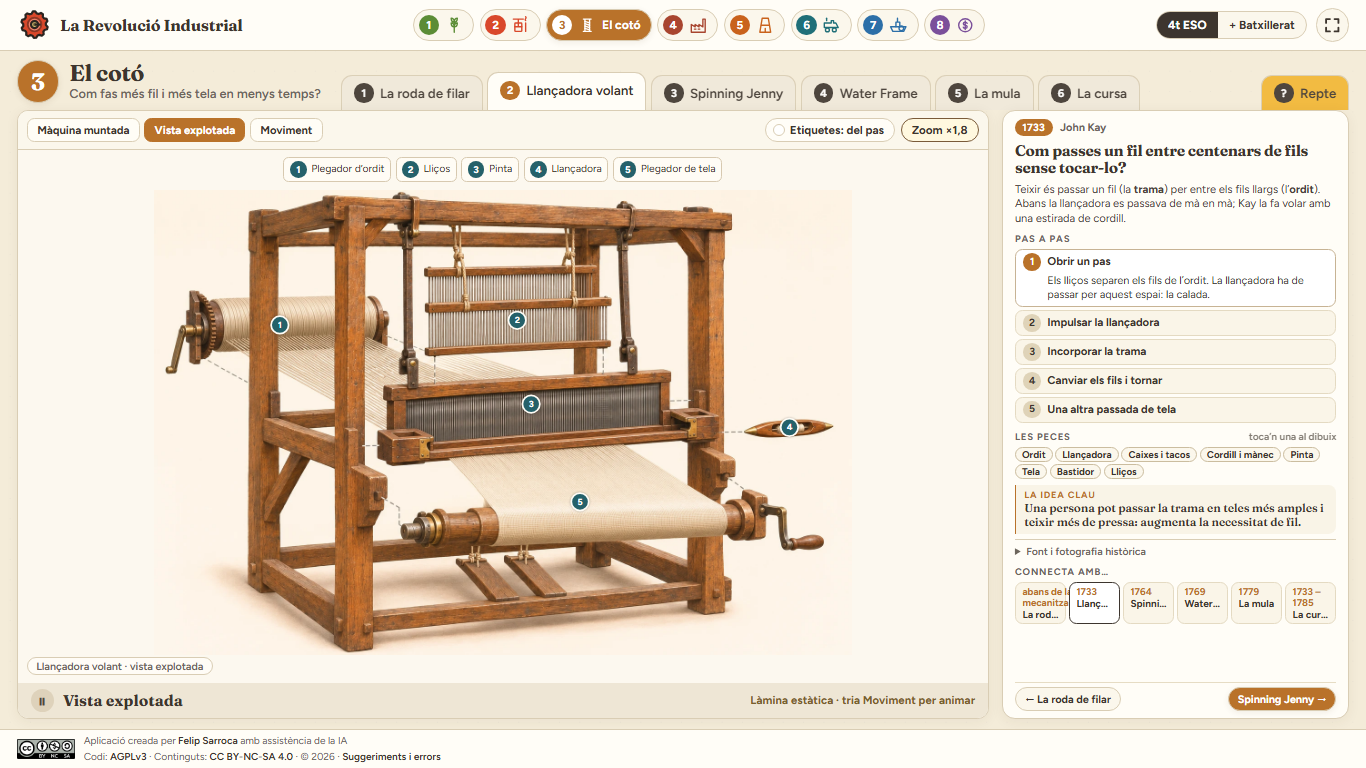
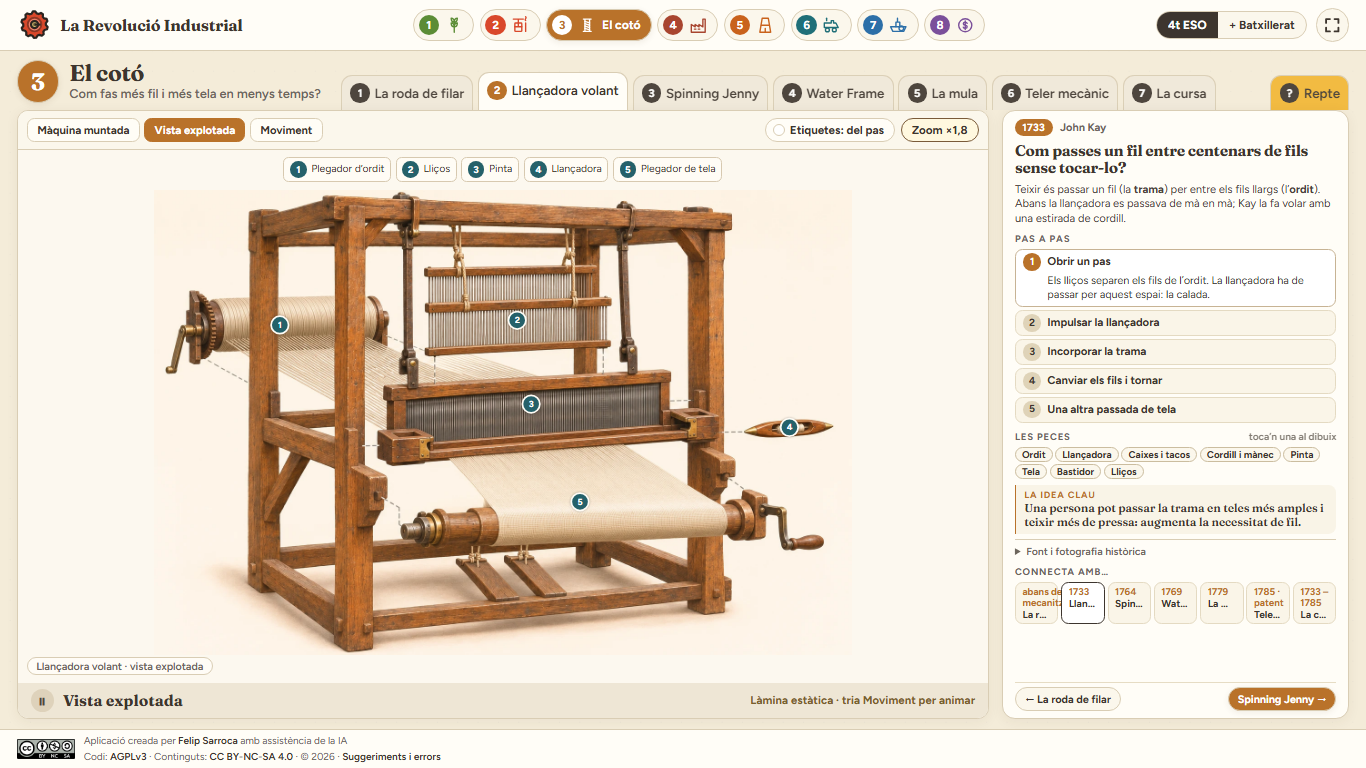
Afegeix el teler mecànic de Cartwright amb làmines i moviment

Changed region(s): [[0.246, 0.0938, 0.8917, 0.1562], [0.7687, 0.75, 0.9839, 0.8125], [0.9224, 0.0938, 0.9839, 0.1562]]

diff --git a/RevolucioIndustrial/js/textil-cartwright.js b/RevolucioIndustrial/js/textil-cartwright.js
@@ -1,0 +1,134 @@
+// SPDX-License-Identifier: AGPL-3.0-or-later
+/* Teler mecànic: principi horitzontal de les millores de Cartwright,
+   1787–1790. La data de 1785 identifica la primera patent, no aquest model. */
+(function(){
+  'use strict';
+  const TAU=Math.PI*2;
+  const clamp=q=>Math.max(0,Math.min(1,q));
+  const ease=q=>{q=clamp(q);return q*q*(3-2*q);};
+  const seg=(p,a,b)=>ease((p-a)/(b-a));
+  const mix=(a,b,q)=>a+(b-a)*q;
+  function state(p){
+    p=clamp(p);const half=p<.5?0:1,q=p===1?1:p*2-half,sign=half===0?1:-1;
+    const angle=TAU*2*p+Math.PI;
+    const crank=[430,-297+35*Math.cos(angle),100+35*Math.sin(angle)];
+    const y=crank[1]+Math.sqrt(180*180-(100-crank[2])**2);
+    const x=mix(-325*sign,325*sign,seg(q,.30,.60));
+    const shed=mix(-sign,sign,seg(q,0,.20));
+    const centre=310-40*(40-y)/195,halfGap=45*Math.abs(shed)*(1-(40-y)/195);
+    const kick=12*(seg(q,.30,.34)-seg(q,.34,.40));
+    const wefts=[];
+    if(p>=.15)wefts.push({y:p>=.5?-155:y,amount:p>=.5?1:clamp((x+270)/540),reverse:false});
+    if(p>=.65)wefts.push({y:p===1?-152:y,amount:clamp((270-x)/540),reverse:true});
+    const step=q<.30?0:q<.60?1:2;
+    return {x,y,shed,boatY:y,boatZ:centre,upperZ:centre+halfGap,lowerZ:centre-halfGap,
+      angle,camAngle:-TAU*p,crank,rodEnd:[430,y,100],half,q,step,
+      pickerLeft:half===0?kick:0,pickerRight:half===1?kick:0,
+      weaving:q>=.30&&q<.60,rows:Number(p>=.5)+Number(p===1),wefts,
+      action:step===0?'Les lleves canvien els lliços i obren la calada':step===1?'La transmissió impulsa la llançadora':'La biela mou el batà i atapeeix la trama'};
+  }
+  RI.TEXTIL_ESTATS.cartwright=state;
+  function camRadius(beta,sign){
+    const phase=((beta-Math.PI/2)/TAU%1+1)%1;
+    return 40+11*sign*state(phase).shed;
+  }
+  function cam(g,x,s,sign){
+    const front=[],back=[],n=80;
+    for(let i=0;i<n;i++){
+      const b=TAU*i/n,a=b+s.camAngle,r=camRadius(b,sign);
+      front.push([x+6,-210+r*Math.cos(a),100+r*Math.sin(a)]);
+      back.push([x-6,-210+r*Math.cos(a),100+r*Math.sin(a)]);
+    }
+    g.poly(front,'iron','eix',[1,0,0],true);g.poly(back,'iron','eix',[-1,0,0],true);
+    for(let i=0;i<n;i++){
+      const j=(i+1)%n,a=TAU*(i+.5)/n+s.camAngle;
+      g.poly([front[i],back[i],back[j],front[j]],'iron','eix',[0,Math.cos(a),Math.sin(a)],true);
+    }
+    const z=140+11*sign*s.shed;
+    g.cyl([x,-210,z],[x,-210,z+56],3.5,'brass','eix',12);
+    g.box(x-7,-218,164,14,16,10,'iron','eix');
+    g.cyl([x,-210,z+56],[x,40,310+45*sign*s.shed],3,'iron','eix',12);
+  }
+  function gear(g,x,y,z,r,angle,teeth){
+    const front=[],back=[];
+    for(let i=0;i<teeth*4;i++){
+      const a=angle+TAU*i/(teeth*4),rr=r+(i%4<2?2:-2);
+      front.push([x+4,y+rr*Math.cos(a),z+rr*Math.sin(a)]);
+      back.push([x-4,y+rr*Math.cos(a),z+rr*Math.sin(a)]);
+    }
+    g.poly(front,'brass','transmissio',[1,0,0],true);
+    for(let i=0;i<front.length;i++){
+      const j=(i+1)%front.length,a=angle+TAU*(i+.5)/front.length;
+      g.poly([front[i],back[i],back[j],front[j]],'brass','transmissio',[0,Math.cos(a),Math.sin(a)],true);
+    }
+  }
+  function build(g,p){
+    const s=state(p),weaving=RI.TEXTIL_DETALLS.buildScene('llancadora',p,s);
+    g.faces.push(...weaving.faces);
+    for(const x of [-365,355]){
+      g.box(x,-330,30,14,500,15,'oak','bastidor');
+      g.box(x,-100,30,14,25,375,'oak','bastidor');
+      g.box(x,-100,380,14,270,14,'oak','bastidor');
+    }
+    g.box(-365,-240,30,735,18,15,'oak','bastidor');
+    g.cyl([-325,-297,100],[430,-297,100],7,'iron','eix',16);
+    g.cyl([-325,-210,100],[385,-210,100],7,'iron','eix',16);
+    for(const x of [-310,310]){
+      for(const y of [-297,-210])g.box(x-10,y-13,45,20,26,55,'oak','eix');
+    }
+    cam(g,-300,s,-1);cam(g,300,s,1);
+    gear(g,385,-297,100,29,s.angle,16);
+    gear(g,385,-210,100,58,s.camAngle+Math.PI/32,32);
+    g.wheel([410,-297,100],75,s.angle,'x','transmissio');
+    for(const y of [-372,-222])g.line([[410,y,100],[410,y,405]],'#8d7652',3,'transmissio');
+    g.cyl([430,-297,100],s.crank,5,'brass','pinta',12);
+    g.cyl(s.crank,s.rodEnd,4,'iron','pinta',16);
+    g.cyl(s.rodEnd,[430,s.y,278],4,'iron','pinta',12);
+    g.cyl([430,s.y,278],[350,s.y,278],4,'iron','pinta',12);
+    // Els mecanismes laterals actuen sobre els impulsors, sense cordill de mà.
+    for(const sign of [-1,1]){
+      const x=sign*350;
+      g.cyl([x,-210,100],[x,s.y,272],3,'iron','caixes',10);
+    }
+  }
+  function context(g,p){
+    build(g,p);
+    for(const x of [-365,355])for(const y of [-100,150])g.box(x,y,30,14,18,465,'oak','bastidor');
+    for(const y of [-100,150])g.box(-365,y,480,734,18,15,'oak','bastidor');
+  }
+  RI.TEXTIL_DETALLS.register('cartwright',{build,context,labels:[
+    ['eix','Eix i lleves',[0,-210,100],260,560],
+    ['llicos','Lliços accionats',[0,40,340],300,125],
+    ['llancadora','Llançadora impulsada',[0,-82,285],730,270],
+    ['pinta','Biela i batà',[350,-110,180],760,450],
+    ['tela','Tela entreteixida',[0,-190,210],180,390],
+    ['transmissio','Energia exterior',[410,-297,140],750,150]
+  ]});
+  RI.CARTWRIGHT_GEOMETRIA={state,camRadius};
+  RI.CARTWRIGHT_ESCENA={
+    id:'cartwright',nom:'Teler mecànic',any:'1785 · patent',qui:'Edmund Cartwright',durada:18,
+    pregunta:'I si la màquina coordina les tres accions de teixir?',
+    intro:'Amb Kay, la persona encara mou el teler. Cartwright aplica <b>energia motriu</b> a la calada, la llançadora i la batuda. Un eix i les transmissions coordinen tot el cicle.',
+    model:'Principi del teler mecànic horitzontal · millores de 1787–1790',
+    innovacio:{abans:'La persona coordina mans i peus',ara:'Un mecanisme coordina el cicle de teixit'},
+    fases:[
+      {fins:.15,nom:'Obrir la calada',text:'L’eix gira. Les lleves actuen sobre els lliços i separen els dos grups de fils.',focus:['eix','llicos']},
+      {fins:.30,nom:'Impulsar la llançadora',text:'La transmissió activa l’impulsor lateral. La llançadora travessa la calada i deixa una passada de trama.',focus:['llancadora','transmissio']},
+      {fins:.50,nom:'Atapeir la trama',text:'La biela transforma el gir en moviment del batà. La pinta porta el fil nou contra la tela.',focus:['pinta','eix']},
+      {fins:1,nom:'Repetir a l’altre costat',text:'S’inverteixen els lliços i la llançadora torna. El mecanisme repeteix la seqüència; la persona vigila, reposa el fil i resol les incidències.',focus:['llancadora','tela']}
+    ],
+    parts:{
+      transmissio:{nom:'Transmissió motriu',text:'La corretja i els engranatges porten energia exterior al teler. El model no pressuposa que tots els primers telers funcionessin amb vapor.'},
+      eix:{nom:'Eix i lleves',text:'L’eix sincronitza el mecanisme. Les lleves converteixen el gir en moviments alternatius que accionen els lliços.'},
+      llicos:{nom:'Lliços',text:'Separar els fils de l’ordit obre la calada per a la llançadora.'},
+      llancadora:{nom:'Llançadora i impulsors',text:'La barqueta porta el fil de trama. Els impulsors la llancen mecànicament d’una caixa a l’altra.'},
+      pinta:{nom:'Pinta, batà i biela',text:'La biela mou el batà; la pinta atapeeix cada passada de trama.'},
+      ordit:{nom:'Ordit',text:'Els fils llargs, tensats, que s’entrecreuen amb la trama.'},
+      tela:{nom:'Tela',text:'La successió de passades entrecreuades forma el teixit.'},
+      bastidor:{nom:'Bastidor',text:'Subjecta i alinea els elements del teler.'}
+    },
+    clau:'La innovació és coordinar mecànicament el cicle de teixit. La seva difusió va necessitar dècades de millores.',
+    batx:{titol:'1785 és la primera patent',text:'El primer prototip tenia l’ordit vertical. Aquí es representa el principi horitzontal de les millores de 1787–1790, amb dimensions i transmissions simplificades. Els primers telers eren poc fiables i l’expansió va ser gradual. Mecanitzar no eliminava la necessitat de treballadors ni millorava automàticament les seves condicions.',font:'https://www.fadedpage.com/books/20180140/html.php',fontNom:'J. M. Strickland (1843) · descripció i gravat de 1790'},
+    real:{img:'img/real-cartwright-1790.jpg',titol:'Part del teler de Cartwright de 1790',museu:'Gravat publicat a la memòria de J. M. Strickland (1843)',lic:'Obra de domini públic · digitalització de Faded Page'}
+  };
+})();

diff --git a/RevolucioIndustrial/js/textil-detalls.js b/RevolucioIndustrial/js/textil-detalls.js
@@ -119,8 +119,8 @@
       g.cyl([s.handX-19,s.hand-12,324],[s.handX+7,s.hand+3,329],6,'#e1b99b','fibra',16);
       for(let i=0;i<8;i++)g.line([[s.handX-58,s.hand-3+i*2,335+i],[s.handX-17,s.hand,335]],'#b6c2ab',3,'fibra');
     },
-    llancadora(g,p){
-      const s=S('llancadora',p),by=s.y;
+    llancadora(g,p,provided){
+      const s=provided||S('llancadora',p),by=s.y;
       g.cyl([-290,140,310],[290,140,310],21,'cotton','ordit',28);
       g.cyl([-290,-190,165],[290,-190,165],26,'cotton','tela',28);
       // Deu fils fan visible l'entrecreuament, sense una malla atapeïda.
@@ -142,7 +142,8 @@
       for(const side of [-1,1]){
         const engaged=(side<0?p<.23:p>=.65&&p<.72);
         g.box(side<0?-355:300,by-19,282,55,42,15,'oak','caixes');
-        g.box(side*(335-(engaged&&s.pull?22:0))-7,by-11,290,14,24,17,'brass','caixes');
+        const shift=provided?(side<0?s.pickerLeft:s.pickerRight):(engaged&&s.pull?22:0);
+        g.box(side*((provided?360:335)-shift)-7,by-11,290,14,24,17,'brass','caixes');
       }
       const row=(y,amount,reverse=false)=>{
         amount=Math.max(0,Math.min(1,amount));
@@ -153,15 +154,20 @@
           if(hi>lo)g.line([[lo,y,z+(i%2?2:-2)],[hi,y,z+(i%2?-2:2)]],'#b6593f',4,'llancadora');
         }
       };
-      if(p>=.18)row(p<.4?-82:lerp(-82,-155,s.beat1),p<.38?(s.x+270)/540:1);
-      if(p>=.67)row(p<.86?-82:lerp(-82,-152,s.beat2),p<.85?(270-s.x)/540:1,true);
-      const x=s.x,z=s.boatZ;
-      g.poly([[x-28,-82,z],[x,-94,z],[x+28,-82,z],[x,-70,z]],'brass','llancadora',[0,0,1]);
-      g.poly([[x-28,-82,z],[x,-70,z],[x+28,-82,z],[x+22,-82,z-5],[x,-73,z-6],[x-22,-82,z-5]],'oak','llancadora',[0,-1,0]);
-      g.cyl([x-12,-82,z+3],[x+12,-82,z+3],4,'cotton','llancadora',16);
-      const grip=s.pull?228:248;
-      g.line([[-340,by,298],[-150,-230,250],[0,-245,grip],[150,-230,250],[340,by,298]],'#9b7f52',2.8,'cordill');
-      g.cyl([0,-245,grip-13],[0,-245,grip+13],6,'brass','cordill',16);
+      if(provided)s.wefts.forEach(w=>row(w.y,w.amount,w.reverse));
+      else{
+        if(p>=.18)row(p<.4?-82:lerp(-82,-155,s.beat1),p<.38?(s.x+270)/540:1);
+        if(p>=.67)row(p<.86?-82:lerp(-82,-152,s.beat2),p<.85?(270-s.x)/540:1,true);
+      }
+      const x=s.x,z=s.boatZ,y=s.boatY;
+      g.poly([[x-28,y,z],[x,y-12,z],[x+28,y,z],[x,y+12,z]],'brass','llancadora',[0,0,1]);
+      g.poly([[x-28,y,z],[x,y+12,z],[x+28,y,z],[x+22,y,z-5],[x,y+9,z-6],[x-22,y,z-5]],'oak','llancadora',[0,-1,0]);
+      g.cyl([x-12,y,z+3],[x+12,y,z+3],4,'cotton','llancadora',16);
+      if(!provided){
+        const grip=s.pull?228:248;
+        g.line([[-340,by,298],[-150,-230,250],[0,-245,grip],[150,-230,250],[340,by,298]],'#9b7f52',2.8,'cordill');
+        g.cyl([0,-245,grip-13],[0,-245,grip+13],6,'brass','cordill',16);
+      }
     }
   };
   const fits=new Map();
@@ -200,8 +206,8 @@
         if(part==='fus'){point=[0,s.travel,s.guideZ];title=p<.55?'Fil que es torça':p<.67?'Guia de recollida':'Fil que s’enrotlla';}
       }
       if(id==='roda'&&part==='fibra'){point[0]=s.handX;point[1]=s.hand;}
-      if(id==='llancadora'){
-        if(part==='llancadora')point[0]=s.x;
+      if(id==='llancadora'||id==='cartwright'){
+        if(part==='llancadora')point=[s.x,s.boatY,s.boatZ];
         if(part==='pinta')point[1]=s.y;
       }
       const at=project(point),ax=f.x+at[0]*f.s,ay=f.y+at[1]*f.s,w=title.length*size*.52+20;
@@ -223,10 +229,11 @@
     return `<g transform="translate(${dx} ${dy}) scale(${s})" opacity=".72">${paint(g,selected,focus,true)}</g>`;
   }
   function contextHTML(id){
-    const {s,dx,dy}=contextFit(id),centre={water:[-75,90,300],jenny:[-39,70,290],mula:[-50,-100,230],roda:[-248,-40,325],llancadora:[0,-82,285]}[id],at=project(centre);
+    const {s,dx,dy}=contextFit(id),centre={water:[-75,90,300],jenny:[-39,70,290],mula:[-50,-100,230],roda:[-248,-40,325],llancadora:[0,-82,285],cartwright:[0,-100,250]}[id],at=project(centre);
     return `<g class="tx-context" pointer-events="none"><text x="1040" y="140" text-anchor="middle" fill="#7d8980" style="font-size:17px">Situació del detall</text><g id="tx-whole">${whole(id,0,null,[])}</g><ellipse cx="${dx+at[0]*s}" cy="${dy+at[1]*s}" rx="${id==='llancadora'?87:22}" ry="${id==='water'?58:32}" fill="#d4a759" fill-opacity=".12" stroke="#ba965c" stroke-width="1.2"/><g id="tx-multiple"></g></g>`;
   }
   function multiple(id,s){
+    if(id==='cartwright')return `<text x="1040" y="390" text-anchor="middle" fill="#886c49" style="font-size:20px">Un eix coordina el teler</text>${['Calada','Llançadora','Batuda'].map((name,i)=>`<circle cx="955" cy="${422+i*30}" r="5" fill="${s.step===i?'#b98b42':'#ded9cb'}"/><text x="970" y="${428+i*30}" fill="${s.step===i?'#78603e':'#939a8d'}" style="font-size:18px">${name}</text>`).join('')}`;
     const n={roda:1,jenny:8,water:4,mula:6}[id];
     if(!n)return `<text x="1040" y="390" text-anchor="middle" fill="#886c49" style="font-size:20px">Una mà impulsa la trama</text>`;
     const fill=id==='water'?s.fill:s.wind;
@@ -234,9 +241,10 @@
     const pitch=Math.min(28,188/n),start=1040-(n-1)*pitch/2;
     return `<text x="1040" y="390" text-anchor="middle" fill="#886c49" style="font-size:21px">${title}</text>${Array.from({length:n},(_,i)=>`<rect x="${start+i*pitch-7}" y="414" width="14" height="48" rx="5" fill="#ede8d9"/><rect x="${start+i*pitch-7}" y="${462-48*fill}" width="14" height="${48*fill}" rx="4" fill="#c09a55"/>`).join('')}<text x="1040" y="488" text-anchor="middle" fill="#8a9388" style="font-size:15px">${id==='water'?'Recollida contínua':'Recollida en aquest cicle'}</text>`;
   }
-  function buildScene(id,p){const g=new Scene();details[id](g,p);return g;}
+  function buildScene(id,p,provided){const g=new Scene();details[id](g,p,provided);return g;}
   RI.TEXTIL_DETALLS={
     buildScene,
+    register(id,spec){details[id]=spec.build;labels[id]=spec.labels;models[id]=spec.context||spec.build;},
     svg(id){
       const small=mobile(),f=fit(id,small),g=buildScene(id,0);
       let svg=RI.svg(`<rect x="-60" width="1320" height="720" fill="#fcf8ef"/><g id="tx-detail"><g transform="translate(${f.x} ${f.y}) scale(${f.s})">${paint(g)}</g></g>${contextHTML(id)}`,`0 0 ${small?900:1200} 720`);
@@ -252,7 +260,7 @@
       svg.querySelector('#tx-multiple').innerHTML=multiple(id,s);
       const action=document.querySelector('#tx-action'),product=document.querySelector('#tx-product');
       if(action&&action.textContent!==s.action)action.textContent=s.action;
-      const out=id==='llancadora'?s.rows+' passades incorporades a la tela':id==='roda'?'Fibres soltes → fil torçut → fil recollit':id==='jenny'?'Detall d’un fus · 8 treballen alhora':id==='water'?'Detall d’un cap · producció contínua':'Detall d’un fus · 6 coordinats en aquest esquema';
+      const out=id==='llancadora'||id==='cartwright'?s.rows+' passades incorporades a la tela':id==='roda'?'Fibres soltes → fil torçut → fil recollit':id==='jenny'?'Detall d’un fus · 8 treballen alhora':id==='water'?'Detall d’un cap · producció contínua':'Detall d’un fus · 6 coordinats en aquest esquema';
       if(product&&product.textContent!==out)product.textContent=out;
       svg.dataset.phase=e.fases[k].nom;
     };}

diff --git a/RevolucioIndustrial/js/nucli.js b/RevolucioIndustrial/js/nucli.js
@@ -246,7 +246,17 @@
   }
   RI.encaixaConnecta = encaixaConnecta;
 
-  function marcaTab(v) { $$('#escenes button').forEach((b) => b.setAttribute('aria-selected', b.dataset.esc === String(v))); }
+  function encaixaTab(){
+    const row=$('#escenes');if(!row)return;
+    const active=$('[aria-selected="true"]',row);if(!active)return;
+    const r=row.getBoundingClientRect(),b=active.getBoundingClientRect(),scale=r.width/(row.offsetWidth||r.width)||1;
+    if(b.left<r.left)row.scrollLeft-=(r.left-b.left)/scale+6;
+    else if(b.right>r.right)row.scrollLeft+=(b.right-r.right)/scale+6;
+  }
+  function marcaTab(v) {
+    $$('#escenes button').forEach((b) => b.setAttribute('aria-selected', b.dataset.esc === String(v)));
+    requestAnimationFrame(encaixaTab);
+  }
 
   function obreEscena(i) {
     const cap = st.cap, e = cap.escenes[i];
@@ -290,7 +300,7 @@
       <div class="peca" id="peca"></div>
       ${e.clau ? `<div class="clau"><span>La idea clau</span><p>${e.clau}</p></div>` : ''}
       ${e.batx ? `<div class="batx-wrap" id="batx-wrap"><button type="button" class="batx-toggle" aria-expanded="false"><span>Per aprofundir · 1r de Batxillerat</span><em style="font-style:normal">Mostra ▾</em></button><div class="batx-bloc"><button type="button" class="fitxa-tanca" aria-label="Tanca">×</button><span>Per aprofundir · 1r de Batxillerat</span><h4>${esc(e.batx.titol)}</h4><p>${e.batx.text}</p>${e.batx.font ? `<a href="${e.batx.font}" target="_blank" rel="noopener noreferrer">${esc(e.batx.fontNom || 'Consulta la font')} ↗</a>` : ''}</div></div>` : ''}
-      ${e.real ? `<details class="fonts-lamina"><summary>Font i fotografia històrica</summary><p>${esc(e.real.titol)} · ${esc(e.real.museu)}</p><a href="${esc(e.real.img)}" target="_blank" rel="noopener noreferrer">Obre la fotografia</a><small>${esc(e.real.lic)}</small></details>` : ''}
+      ${e.real ? `<details class="fonts-lamina"><summary>Font i imatge històrica</summary><p>${esc(e.real.titol)} · ${esc(e.real.museu)}</p><a href="${esc(e.real.img)}" target="_blank" rel="noopener noreferrer">Obre la imatge</a><small>${esc(e.real.lic)}</small></details>` : ''}
       ${connecta(cap, i)}
       <div class="p-nav">${i > 0 ? `<button type="button" data-va="${i - 1}">← ${esc(cap.escenes[i - 1].nom)}</button>` : '<span></span>'}${i < cap.escenes.length - 1 ? `<button type="button" class="seg" data-va="${i + 1}">${esc(cap.escenes[i + 1].nom)} →</button>` : '<button type="button" class="seg" data-va="repte">Repte final →</button>'}</div>
     </aside>`;
@@ -804,7 +814,7 @@
 
   /* ---------- arrencada ---------- */
   document.addEventListener('DOMContentLoaded', () => {
-    ajusta(); window.addEventListener('resize', () => { ajusta(); encaixaConnecta(); encaixaFoto(); st.brut=true; });
+    ajusta(); window.addEventListener('resize', () => { ajusta(); encaixaConnecta(); encaixaFoto(); requestAnimationFrame(encaixaTab); st.brut=true; });
     const mesuraPeu=()=>{const f=document.querySelector('.felip-app-footer');if(!f)return;const z=+getComputedStyle(document.documentElement).getPropertyValue('--z')||1;document.documentElement.style.setProperty('--peu-h',Math.ceil(f.getBoundingClientRect().height/z)+'px');};
     requestAnimationFrame(()=>{mesuraPeu();const f=document.querySelector('.felip-app-footer');if(f)new ResizeObserver(mesuraPeu).observe(f);});
     window.addEventListener('resize',mesuraPeu);

diff --git a/RevolucioIndustrial/js/reals.js b/RevolucioIndustrial/js/reals.js
@@ -9,6 +9,7 @@ RI.ILLUSTRACIONS = {
   jenny: 'img/illustration-jenny.webp',
   water: 'img/illustration-water.webp',
   mula: 'img/illustration-mula.webp',
+  cartwright: 'img/illustration-cartwright.webp',
   rocket: 'img/illustration-rocket.webp',
   sembradora: 'img/illustration-sembradora.webp',
   arada: 'img/illustration-arada.webp',
@@ -23,6 +24,7 @@ RI.LAMINA_PARTS = {
   jenny:[['metxes',48,12,'Guia de metxa'],['pinca',48,23],['fusos',41,54],['roda',80,60],['corda',48,68]],
   water:[['metxa',47,12],['corrons',45,32],['aleta',44,63],['aigua',81,32,'Transmissió'],['aleta',47,80,'Banc de fusos']],
   mula:[['fileta',22,13],['corrons',23,29],['carro',56,75],['fus',53,54],['roda',83,46]],
+  cartwright:[['transmissio',89,60],['eix',48,83,'Eix i lleves'],['llicos',50,27],['pinta',51,47],['tela',48,62]],
   newcomen:[['balanci',50,12],['piston',24,40],['cilindre',26,48],['caldera',26,65],['bombamina',81,68]],
   watt:[['balanci',48,12],['piston',30,43],['cilindre',31,55],['condensador',45,71],['caldera',13,63]],
   rotativa:[['balanci',43,13],['cilindre',19,61],['biela',69,38],['volant',85,54],['regulador',55,42]],
@@ -38,6 +40,7 @@ RI.EXPLOTADES.llancadora.parts=[['ordit',18,29,"Plegador d’ordit"],['llicos',5
 RI.EXPLOTADES.jenny.parts=[['metxes',48,24,'Guia de metxa'],['pinca',57,11],['fusos',35,68],['roda',82,60],['corda',40,80]];
 RI.EXPLOTADES.water.parts=[['metxa',48,10],['corrons',45,41],['aleta',45,66],['aigua',86,50,'Transmissió'],['aleta',43,84,'Banc de fusos']];
 RI.EXPLOTADES.mula.parts=[['fileta',21,16],['corrons',23,35],['carro',54,73],['fus',52,60],['roda',86,58]];
+RI.EXPLOTADES.cartwright.parts=[['transmissio',90,61],['eix',49,85,'Eix i lleves'],['llicos',50,24],['pinta',51,50],['tela',49,66]];
 RI.EXPLOTADES.newcomen.parts=[['balanci',52,13],['piston',24,33],['cilindre',25,45],['caldera',25,67],['bombamina',82,69]];
 RI.EXPLOTADES.watt.parts=[['balanci',52,13],['piston',29,40],['cilindre',29,55],['condensador',47,59],['caldera',13,64]];
 RI.EXPLOTADES.rocket.parts=[['caldera',35,45],['cilindre',45,48],['biela',30,66],['roda',25,76],['fogar',58,51]];

diff --git a/RevolucioIndustrial/textil.html b/RevolucioIndustrial/textil.html
@@ -11,16 +11,17 @@
   <link rel="preconnect" href="https://fonts.googleapis.com">
   <link rel="preconnect" href="https://fonts.gstatic.com" crossorigin>
   <link href="https://fonts.googleapis.com/css2?family=Figtree:wght@400;500;600;700;800&family=Fraunces:ital,opsz,wght@0,9..144,600;0,9..144,700;0,9..144,900;1,9..144,600&display=swap" rel="stylesheet">
-  <link rel="stylesheet" href="css/estil.css?v=20261113-coto3">
+  <link rel="stylesheet" href="css/estil.css?v=20261114-cartwright1">
 </head>
 <body class="pag-capitol" data-capitol="textil">
   <div id="app"><noscript>Aquest web necessita JavaScript per mostrar les animacions.</noscript></div>
-  <script src="js/nucli.js?v=20261113-coto3"></script>
-  <script src="js/reals.js?v=20261113-coto3"></script>
-  <script src="js/textil-estats.js?v=20261113-coto3"></script>
-  <script src="js/textil-models.js?v=20261113-coto3"></script>
-  <script src="js/textil-detalls.js?v=20261113-coto3"></script>
-  <script src="js/textil-roda.js?v=20261113-coto3"></script>
-  <script src="js/textil.js?v=20261113-coto3"></script>
+  <script src="js/nucli.js?v=20261114-cartwright1"></script>
+  <script src="js/reals.js?v=20261114-cartwright1"></script>
+  <script src="js/textil-estats.js?v=20261114-cartwright1"></script>
+  <script src="js/textil-models.js?v=20261114-cartwright1"></script>
+  <script src="js/textil-detalls.js?v=20261114-cartwright1"></script>
+  <script src="js/textil-roda.js?v=20261114-cartwright1"></script>
+  <script src="js/textil-cartwright.js?v=20261114-cartwright1"></script>
+  <script src="js/textil.js?v=20261114-cartwright1"></script>
 </body>
 </html>

diff --git a/RevolucioIndustrial/js/textil.js b/RevolucioIndustrial/js/textil.js
@@ -614,8 +614,11 @@
       }
     ]
   };
+  cap.escenes.splice(cap.escenes.findIndex(e=>e.id==='cursa'),0,RI.CARTWRIGHT_ESCENA);
+  cap.repte.push({q:'Què aporta el teler mecànic respecte de la llançadora volant de Kay?',o:['Coordina mecànicament la calada, el pas de la trama i la batuda','Només afegeix una altra llançadora','Transforma la fibra en fil'],c:0,e:'La novetat és mecanitzar i coordinar les tres accions principals del teixit.'});
+  cap.repte.push({tipus:'toca',esc:'cartwright',part:'eix',p:.1,q:'Toca l’eix i les lleves que coordinen el teler mecànic.',e:'El gir es transmet als òrgans de treball perquè actuïn en el moment adequat.'});
   for(const e of cap.escenes){
-    if(e.id!=='cursa')e.model='Detall ampliat · mateixa perspectiva que el conjunt';
+    if(!['cursa','cartwright'].includes(e.id))e.model='Detall ampliat · mateixa perspectiva que el conjunt';
     e.svg=e.id==='cursa'?cursa:()=>RI.TEXTIL_DETALLS.svg(e.id);
     e.anima=e.id==='cursa'?animaCursa:RI.TEXTIL_DETALLS.anima(e.id);
   }

diff --git a/RevolucioIndustrial/css/estil.css b/RevolucioIndustrial/css/estil.css
@@ -469,6 +469,7 @@ svg.explota [data-guia]{opacity:.58}
 #app{padding-bottom:var(--peu-h,45px)}
 .mobil .escenari.real-activa .tela,.mobil .escenari.exp-activa .tela{aspect-ratio:1/1}
 body[data-capitol="textil"] .escenes button small{display:none}
+body[data-capitol="textil"] .escenes button{padding-left:9px;padding-right:9px;gap:5px}
 .mobil .ara{flex-wrap:wrap;gap:5px;align-items:center;font-size:.95rem}
 .mobil .ara .seg-hint{flex-basis:100%;margin-left:30px;white-space:normal;font-size:.7rem;line-height:1.25}
 

diff --git a/RevolucioIndustrial/fabrica.html b/RevolucioIndustrial/fabrica.html
@@ -15,7 +15,7 @@
 </head>
 <body class="pag-capitol" data-capitol="fabrica">
   <div id="app"><noscript>Aquest web necessita JavaScript per mostrar les animacions.</noscript></div>
-  <script src="js/nucli.js?v=20261113-coto3"></script>
+  <script src="js/nucli.js?v=20261114-cartwright1"></script>
   <script src="js/reals.js?v=20261113-coto2"></script>
   <script src="js/fabrica.js?v=20261113-4"></script>
 </body>

diff --git a/RevolucioIndustrial/metalls.html b/RevolucioIndustrial/metalls.html
@@ -15,7 +15,7 @@
 </head>
 <body class="pag-capitol" data-capitol="metalls">
   <div id="app"><noscript>Aquest web necessita JavaScript per mostrar les animacions.</noscript></div>
-  <script src="js/nucli.js?v=20261113-coto3"></script>
+  <script src="js/nucli.js?v=20261114-cartwright1"></script>
   <script src="js/reals.js?v=20261113-coto2"></script>
   <script src="js/metalls.js?v=20261113-4"></script>
 </body>

diff --git a/RevolucioIndustrial/vaixell.html b/RevolucioIndustrial/vaixell.html
@@ -15,7 +15,7 @@
 </head>
 <body class="pag-capitol" data-capitol="vaixell">
   <div id="app"><noscript>Aquest web necessita JavaScript per mostrar les animacions.</noscript></div>
-  <script src="js/nucli.js?v=20261113-coto3"></script>
+  <script src="js/nucli.js?v=20261114-cartwright1"></script>
   <script src="js/reals.js?v=20261113-coto2"></script>
   <script src="js/vaixell.js?v=20261113-4"></script>
 </body>

diff --git a/RevolucioIndustrial/vapor.html b/RevolucioIndustrial/vapor.html
@@ -15,7 +15,7 @@
 </head>
 <body class="pag-capitol" data-capitol="vapor">
   <div id="app"><noscript>Aquest web necessita JavaScript per mostrar les animacions.</noscript></div>
-  <script src="js/nucli.js?v=20261113-coto3"></script>
+  <script src="js/nucli.js?v=20261114-cartwright1"></script>
   <script src="js/reals.js?v=20261113-coto2"></script>
   <script src="js/vapor.js?v=20261113-4"></script>
 </body>

diff --git a/RevolucioIndustrial/camp.html b/RevolucioIndustrial/camp.html
@@ -15,7 +15,7 @@
 </head>
 <body class="pag-capitol" data-capitol="camp">
   <div id="app"><noscript>Aquest web necessita JavaScript per mostrar les animacions.</noscript></div>
-  <script src="js/nucli.js?v=20261113-coto3"></script>
+  <script src="js/nucli.js?v=20261114-cartwright1"></script>
   <script src="js/reals.js?v=20261113-coto2"></script>
   <script src="js/camp.js?v=20261113-4"></script>
 </body>
